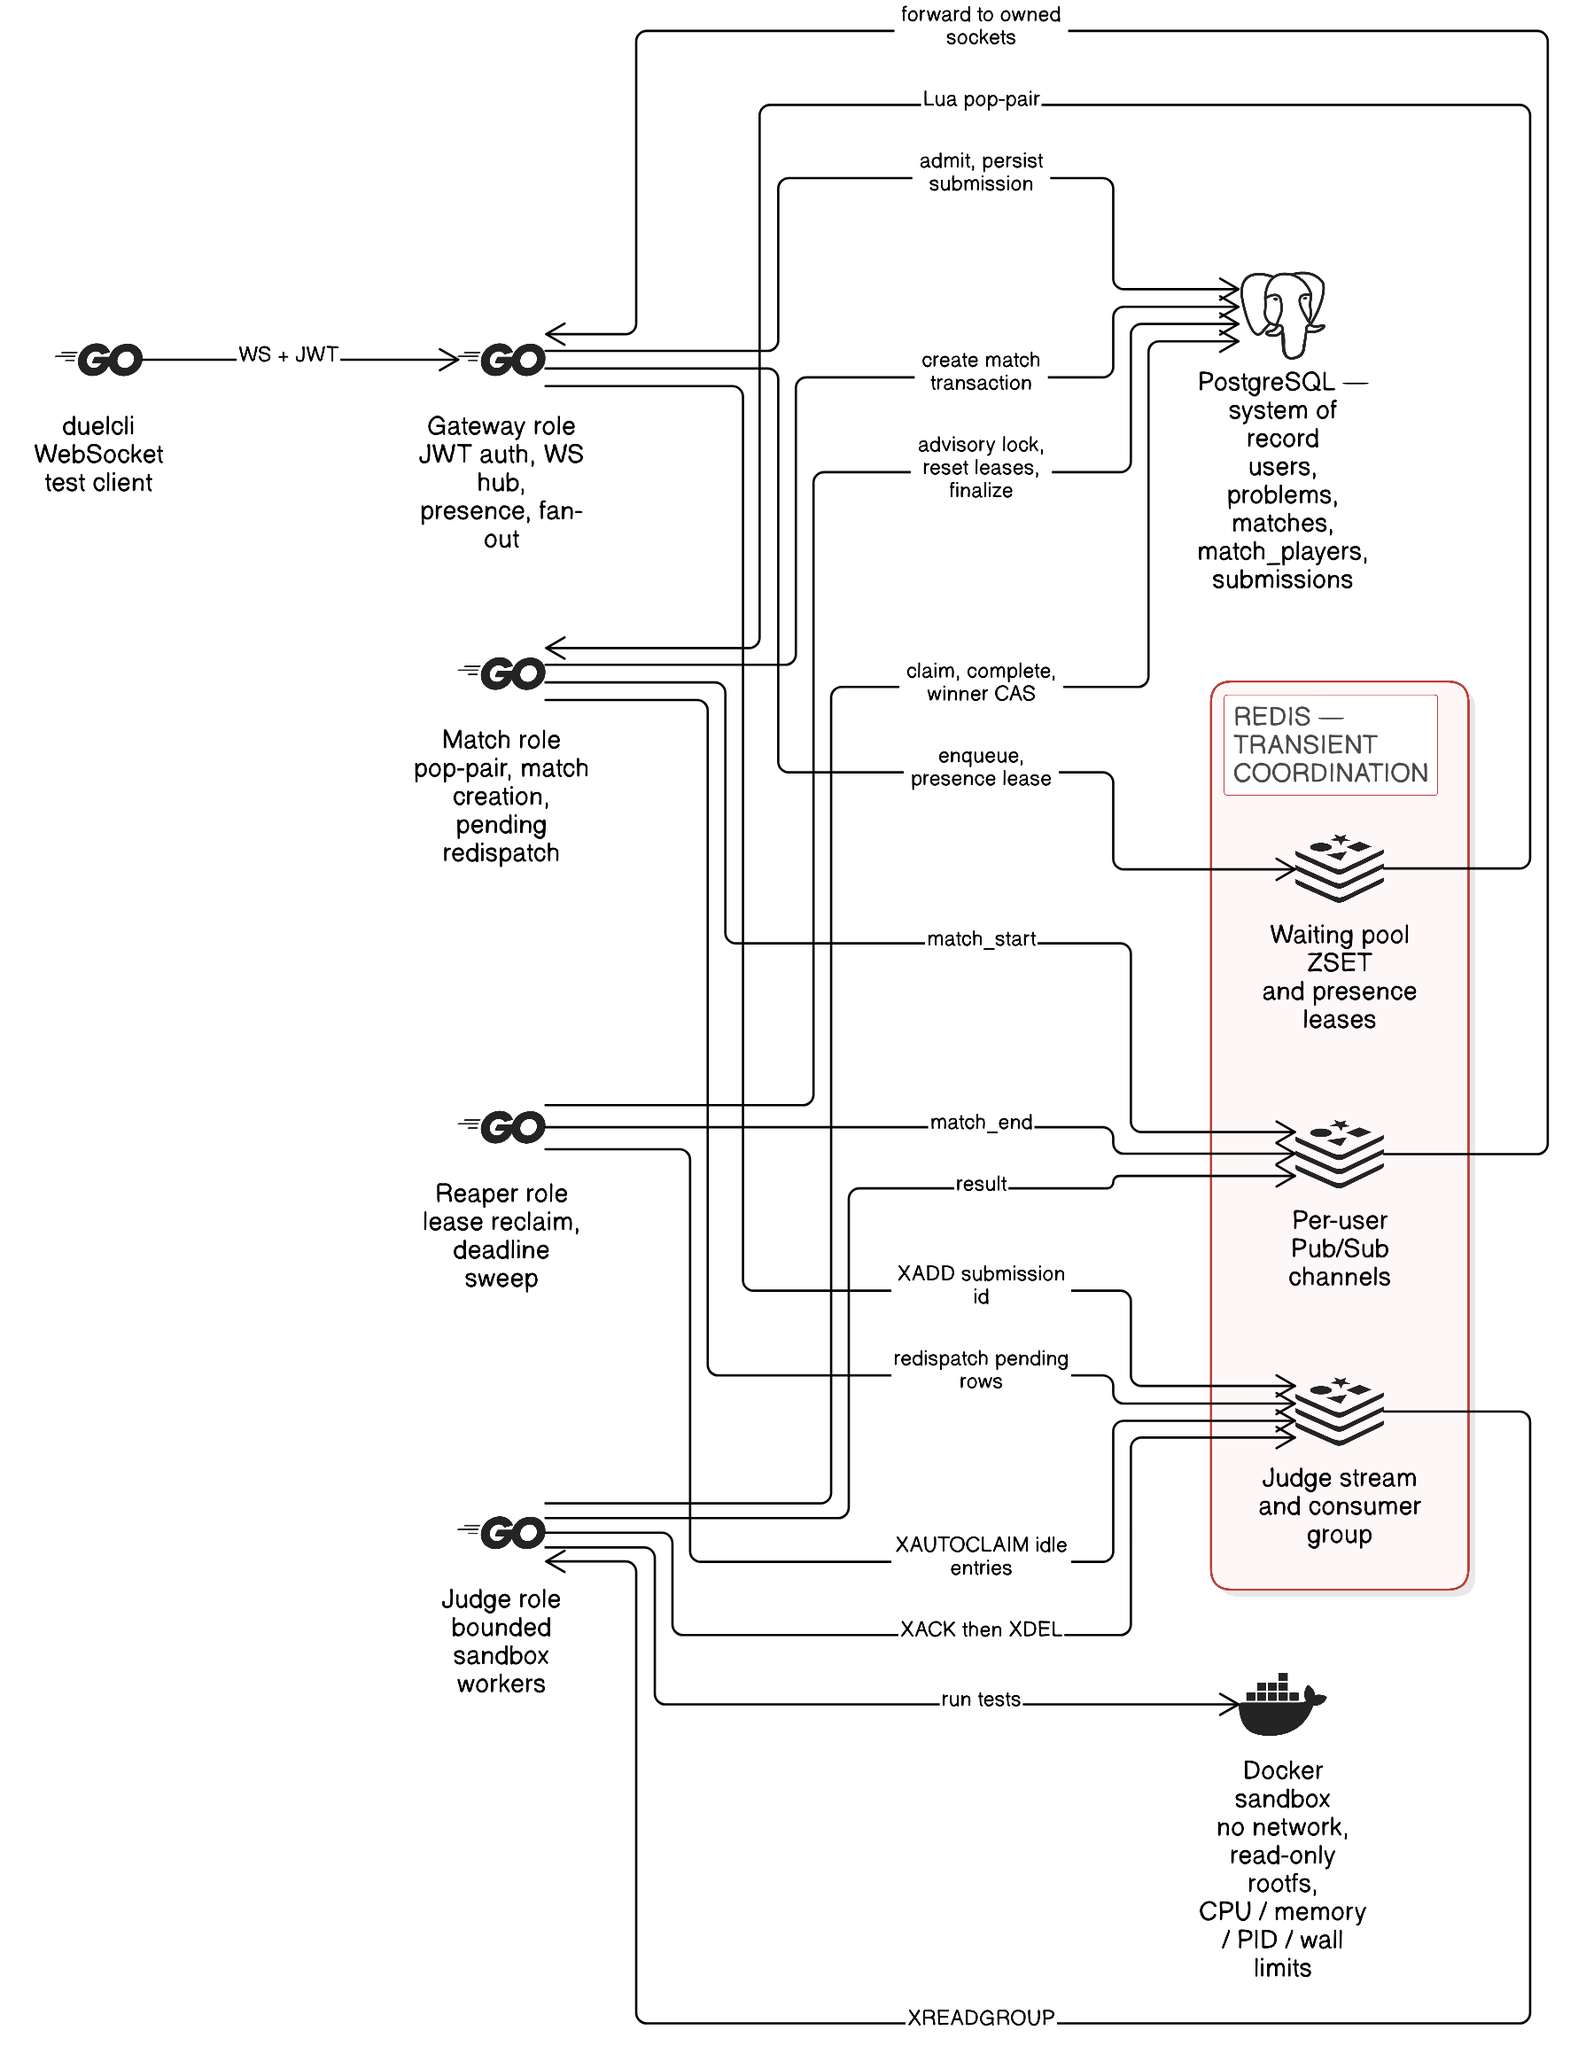
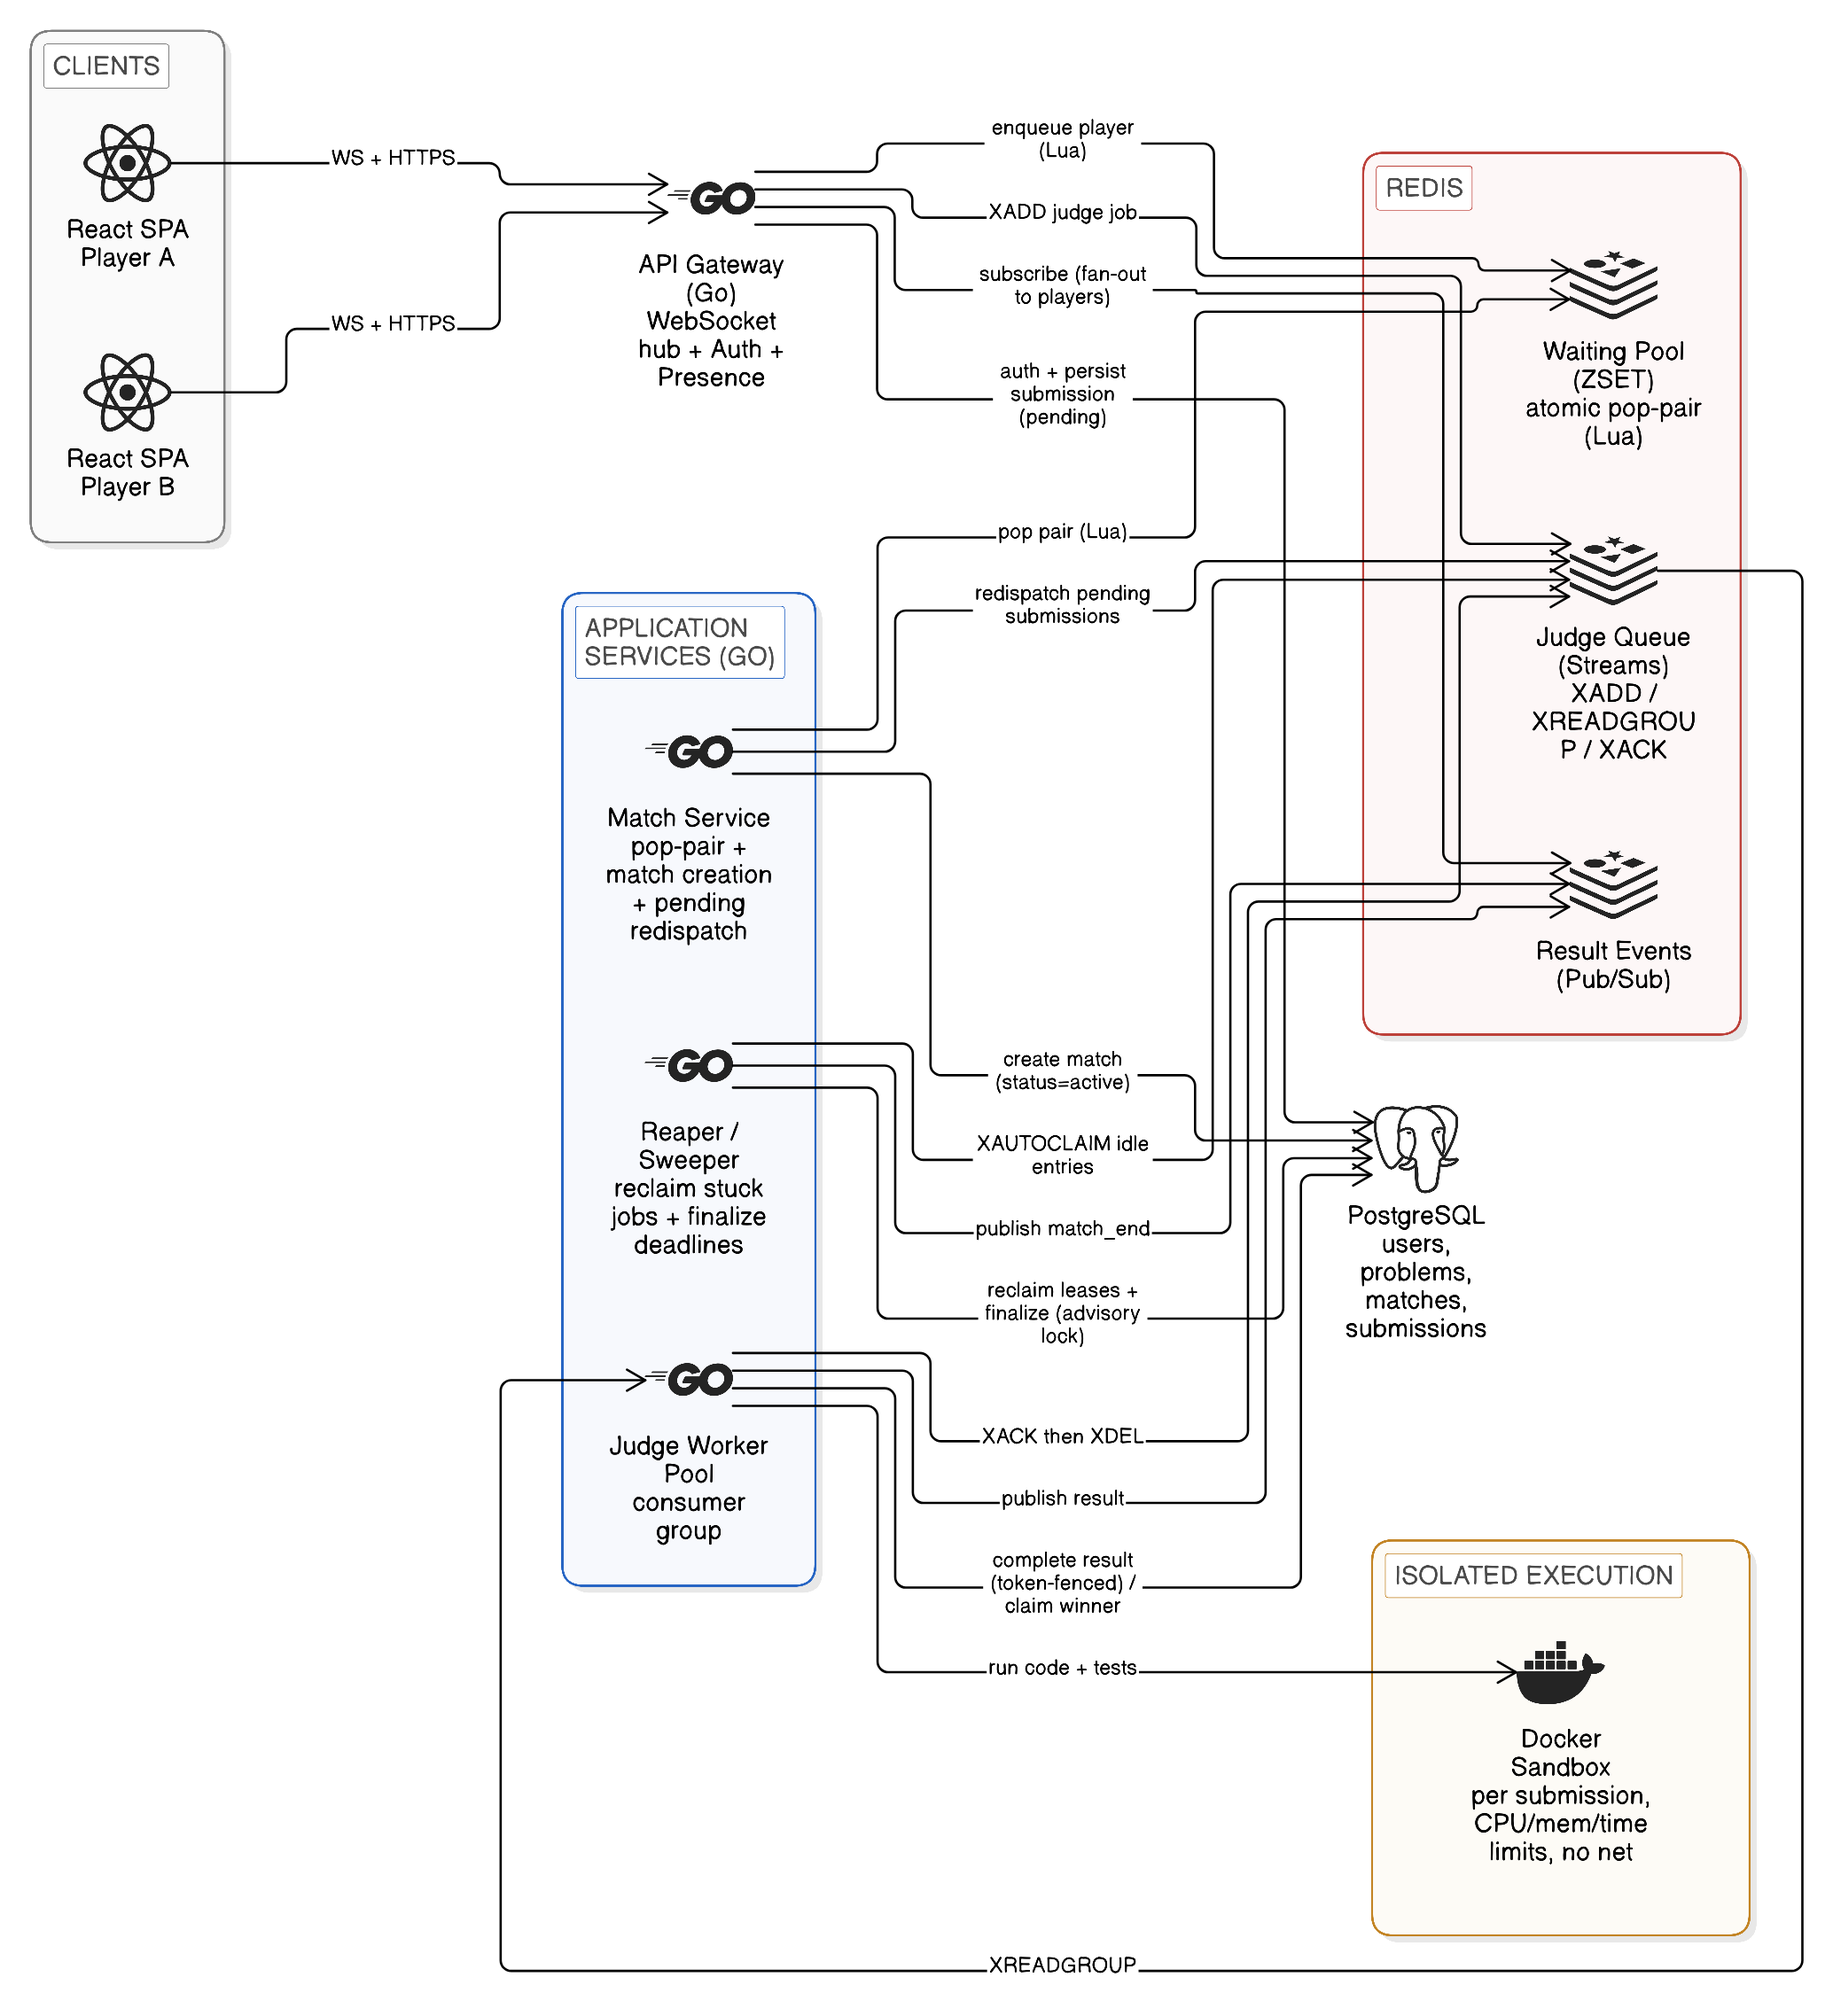
docs: align architecture diagram with as-built flows
Keep the original Eraser diagram's shape and groups, but correct the
Gateway, Match, Judge, and Reaper edges to match the current code. The
only remaining design-vs-code gap is the planned React client.

diff --git a/README.md b/README.md
@@ -12,7 +12,10 @@ Stack: **Go, PostgreSQL, Redis, Docker**. One binary runs every role, selected w
 
 ![CodeDuel architecture](./assets/codeduel-architecture.png)
 
-> Diagram source: [Eraser workspace](https://app.eraser.io/workspace/QuL5MAUh4xotoI8tQm1w).
+> Diagram source: [Eraser](https://app.eraser.io/workspace/QuL5MAUh4xotoI8tQm1w?diagram=aE7Tf70aCQ-DPEWmgvoi).
+
+The diagram matches the system as built, with one exception: the clients shown are the
+planned React SPA. The only client today is the `duelcli` WebSocket test tool.
 
 | Role | Responsibility |
 | --- | --- |
